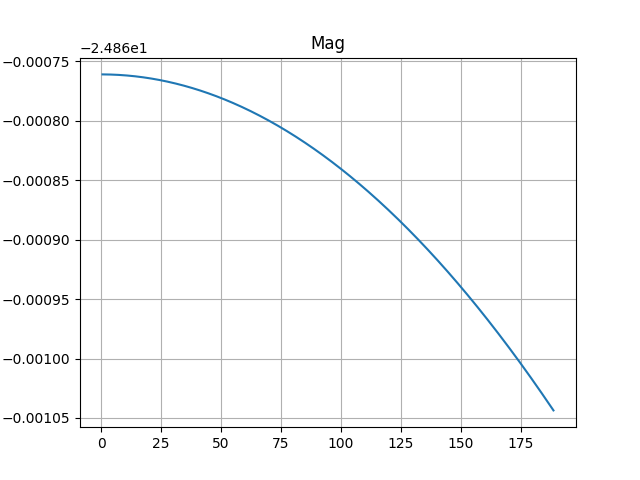
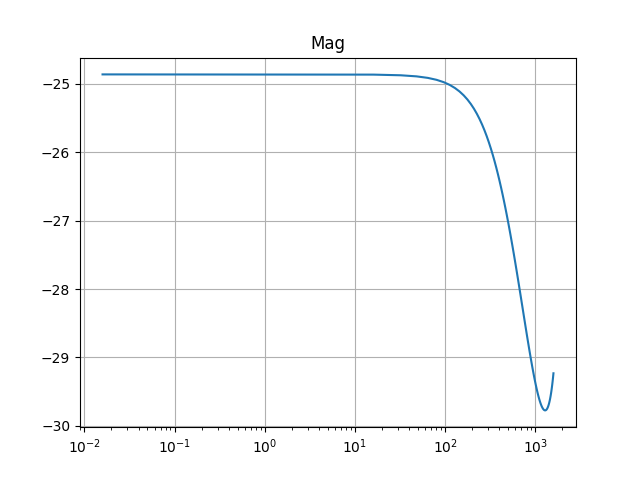
dqPLL works :)

diff --git a/STM32F446/STM32CubeIDE/Core/Src/main.c b/STM32F446/STM32CubeIDE/Core/Src/main.c
@@ -64,17 +64,17 @@ UART_HandleTypeDef huart2;
 
 /* USER CODE BEGIN PV */
 const float f_sw = 20e3;
-const float nom_f = 10.0f;
+const float nom_f = 2.0f;
 const float sample_feq = 5e3;
 float RADIAL_SPEED = (nom_f * PI2) / f_sw;
 
 float angle = 0;
-float Theta = 0;
+float Theta = 3.0;
 float PWM1, PWM2, PWM3;
 float Uab, Uac, Ubc, Ua, Ub, Uc, Ia, Ib, Ic, P, Q;
 float UaRMS, UbRMS, UcRMS, IaRMS, IbRMS, IcRMS;
 float Ud, Uq, Uz;
-float Offset, DCLink;
+float Offset, DCLink, res_angle;
 float Mi = 0.6;
 uint32_t TIM2_falg = 0;
 float temp = 0;
@@ -166,9 +166,9 @@ TIM_freq(2, sample_feq);
 //writeValueToUART(TIM2->ARR);
 
 InitiliseGridStruct(M, GridEsti);
-setVoltageFilterCoeff(0.5);
+setVoltageFilterCoeff(0);
 setCurrentFilterCoeff(0);
-setPowerFilterCoeff(0.99);
+setPowerFilterCoeff(0);
 setRMSFilterLength((uint32_t)((sample_feq/nom_f)*5.0f));
 setPIdqPLL(nom_f, sample_feq);
 
@@ -179,24 +179,9 @@ for (int i = 0; i < (uint32_t)(nom_f * 50); ++i) {
 	Offset = Voltage_Offset();
 }
 
+Theta = (((float)rand()/RAND_MAX)*(6.0f));
 HAL_TIM_Base_Start_IT(&htim1);
 HAL_TIM_Base_Start_IT(&htim2);
-
-GridMeas[0].Vn = 10.29;
-GridMeas[1].Vn = 13.68;
-GridMeas[2].Vn = 17.10;
-GridMeas[3].Vn = 20.52;
-
-GridMeas[0].Pn = 20.65;
-GridMeas[1].Pn = 36.71;
-GridMeas[2].Pn = 57.36;
-GridMeas[3].Pn = 82.60;
-
-GridMeas[0].Qn = 3.75;
-GridMeas[1].Qn = 6.66;
-GridMeas[2].Qn = 10.41;
-GridMeas[3].Qn = 14.99;
-
 
   /* USER CODE END 2 */
 
@@ -207,21 +192,9 @@ GridMeas[3].Qn = 14.99;
 
 
 	if (TIM2_falg >= sample_feq) {
-		Mi -= 0.05f;
-		if ((0 <= tempFalg) && (tempFalg < Max_Samples)) {
-			writeValueToUART(tempFalg);
-			//GridMeas[tempFalg].Vn = (UaRMS + UbRMS + UcRMS)/3.0f;
-			//GridMeas[tempFalg].Pn = -P;
-			//GridMeas[tempFalg].Qn = -Q;
-			tempFalg++;
-		}else{
-			Mi = 0.6f;
-			tempFalg = -1;
-		}
 
-		if (tempFalg == -1) {
-			GeneticandRandomSearch(Max_Samples, M, GridMeas, GridEsti);
-		}
+		//GeneticandRandomSearch(Max_Samples, M, GridMeas, GridEsti);
+
 		char outputBuffer[256];
 		//uint8_t len = snprintf(outputBuffer, sizeof(outputBuffer), "Uab: %f. Uac: %f. Ubc: %f. Ia: %f. Ib: %f. Ic: %f. DCLink: %f. Offset: %f. \r\n", Uab, Uac, Ubc ,Ia, Ib, Ic, DCLink, Offset);
 		//uint8_t len = snprintf(outputBuffer, sizeof(outputBuffer), "P: %f. Q: %f. PF: %f DCLink: %f.\r\n", P, Q, powerFactor(P, Q), DCLink);
@@ -229,8 +202,15 @@ GridMeas[3].Qn = 14.99;
 		//uint8_t len = snprintf(outputBuffer, sizeof(outputBuffer), "IaRMS: %f. IbRMS: %f. IcRMS: %f,\r\n", IaRMS, IbRMS, IcRMS);
 		//uint8_t len = snprintf(outputBuffer, sizeof(outputBuffer), "Ud: %f. Uq: %f.\r\n", Ud, Uq);
 
-		//uint8_t len = snprintf(outputBuffer, sizeof(outputBuffer), "angle: %f. PLL theta: %f. (angle-theta): %f\r\n", angle, Theta, temp);
-		uint8_t len = snprintf(outputBuffer, sizeof(outputBuffer), "Eg: %f. R: %f. X: %f. Error: %f.\r\n", GridEsti[0].Eg, GridEsti[0].R, GridEsti[0].X, GridEsti[0].Error);
+		if (Theta < angle) {
+			//res_angle = (Theta + 6.2831853072f) - angle;
+			res_angle = Theta - angle;
+		}else{
+			res_angle = Theta - angle;
+		}
+
+		uint8_t len = snprintf(outputBuffer, sizeof(outputBuffer), "angle: %f. PLL theta: %f. (angle-theta): %f. Ud: %f\r\n", angle, Theta, res_angle, Ud);
+		//uint8_t len = snprintf(outputBuffer, sizeof(outputBuffer), "Eg: %f. R: %f. X: %f. Error: %f. W: %f.\r\n", GridEsti[0].Eg, GridEsti[0].R, GridEsti[0].X, GridEsti[0].Error, (0.999 + (((float)rand()/RAND_MAX)*(1.001 - 0.999))));
 		HAL_UART_Transmit(&huart2, (uint8_t *)outputBuffer, len, 1000);
 		TIM2_falg = 0;
 		temp = 0;
@@ -252,12 +232,12 @@ GridMeas[3].Qn = 14.99;
 
 		phaseNeutralCalc(Uab, Uac, Ubc, &Ua, &Ub, &Uc);
 		//simpClarkeParkTrans(Ua, Ub, Uc, angle, &Ud, &Uq);
-
 		//dqPLL(Uab, Ubc, -Uac, &Theta, &Ud);
-		//dqPLL(Uab, Uac, Ubc, &Theta, &Ud);
+		dqPLL(Ua, Ub, Uc, &Theta, &Ud);
 
-		instantaneousPower(Ua, Ub, Uc, Ia, Ib, Ic, &P, &Q);
-		calcRMS(&UaRMS, &UbRMS, &UcRMS, Ua, Ua, Ub);
+
+		//instantaneousPower(Ua, Ub, Uc, Ia, Ib, Ic, &P, &Q);
+		//calcRMS(&UaRMS, &UbRMS, &UcRMS, Ua, Ua, Ub);
 		//calcRMS(&IaRMS, &IbRMS, &IcRMS, Ia, Ib, Ic);
 
 

diff --git a/Calculations/LCL Filter.py b/Calculations/LCL Filter.py
@@ -3,37 +3,38 @@ import numpy as np
 import matplotlib.pyplot as plt
 
 
-
 Li = (0.001 * 3)
-Ri = (3.5*3)
+Ri = (3.5 * 3)
 
 Lg = (0.001 * 2)
-Rg = (3.5*2)
+Rg = (3.5 * 2)
 
 Cf = (0.000001 * 4)
-Rf = 0.000000000001
+Rf = (0.000000000001 * 4)
 
 
+H_LCL1 = signal.TransferFunction([1],[(Li*Lg*Cf), 0, (Li*Lg), 0])
+H_LCL2 = signal.TransferFunction([Rf*Cf, 1], [(Lg*Li*Cf), (Cf*(Lg*(Rf+Ri) + Li*(Rf+Rg))), (Lg+Li+Cf*(Rf*Rg + Rf*Ri + Rg*Ri)), Rg+Ri])
 
-H_LCL1 = signal.TransferFunction([Rf*Cf, 1], [(Lg*Li*Cf), (Cf*(Lg*(Rf+Ri) + Li*(Rf+Rg))), (Lg+Li+Cf*(Rf*Rg + Rf*Ri + Rg*Ri)), Rg+Ri])
+resonance_angular_freq = np.sqrt((Li+Lg)/(Li*Lg*Cf))
 
-w = np.linspace(0.1, 30, num=500, endpoint=True)
+w = np.linspace(0.1, 10000, num=100, endpoint=True)
 
-w, mag, phase = signal.bode(H_LCL1, w=w)
+w, mag, phase = signal.bode(H_LCL2, w=w)
 
-w = w*2*np.pi
+w = w/(2*np.pi)
 
 plt.figure()
 plt.title("Mag")
-#plt.semilogx(w, mag)    # Bode magnitude plot
-plt.plot(w,mag)
+plt.semilogx(w, mag)    # Bode magnitude plot
+#plt.plot(w,mag)
 plt.grid()
 plt.savefig("mag.png")
 
 plt.figure()
 plt.title("Phase")
-#plt.semilogx(w, phase)  # Bode phase plot
-plt.plot(w, phase)
+plt.semilogx(w, phase)  # Bode phase plot
+#plt.plot(w, phase)
 plt.grid()
 plt.savefig("phase.png")
 plt.show()

diff --git a/STM32F446/STM32CubeIDE/Core/Src/transfCalc.c b/STM32F446/STM32CubeIDE/Core/Src/transfCalc.c
@@ -44,8 +44,10 @@ uint8_t clarkeTransInv(float Ualpha, float Ubeta, float Ugamma,float* Ua, float*
 }
 
 uint8_t simpClarkeTrans(float Ua, float Ub, float Uc, float* Ualpha, float* Ubeta){
-	*Ualpha = (Const1*Ua) + (-Const4*Ub) + (-Const4*Uc);
-	*Ubeta = (Const5*Ub) + (-Const5*Uc);
+	//*Ualpha = (2.0f/3.0f)*(Ua + (-0.5*Ub) + (-0.5*Uc));
+	//*Ubeta = (2.0f/3.0f)*(((sqrtf(3.0f)/2.0f)*Ub) + (-(sqrtf(3.0f)/2.0f)*Uc));
+	*Ualpha = sqrtf(2.0f/3.0f)*((Ua) + (-0.5*Ub) + (-0.5*Uc));
+	*Ubeta = sqrtf(2.0f/3.0f)*(((sqrtf(3.0f)/2.0f)*Ub) + (-(sqrtf(3.0f)/2.0f)*Uc));
 
 	return HAL_OK;
 }

diff --git a/STM32F446/STM32CubeIDE/Core/Src/GridEstimation.c b/STM32F446/STM32CubeIDE/Core/Src/GridEstimation.c
@@ -7,8 +7,8 @@
 
 #include "GridEstimation.h"
 
-static const float low = 0.99;
-static const float high = 1.01;
+static const float low = 0.990;
+static const float high = 1.001;
 static uint16_t c;
 
 void writeValueToUART1(double value){
